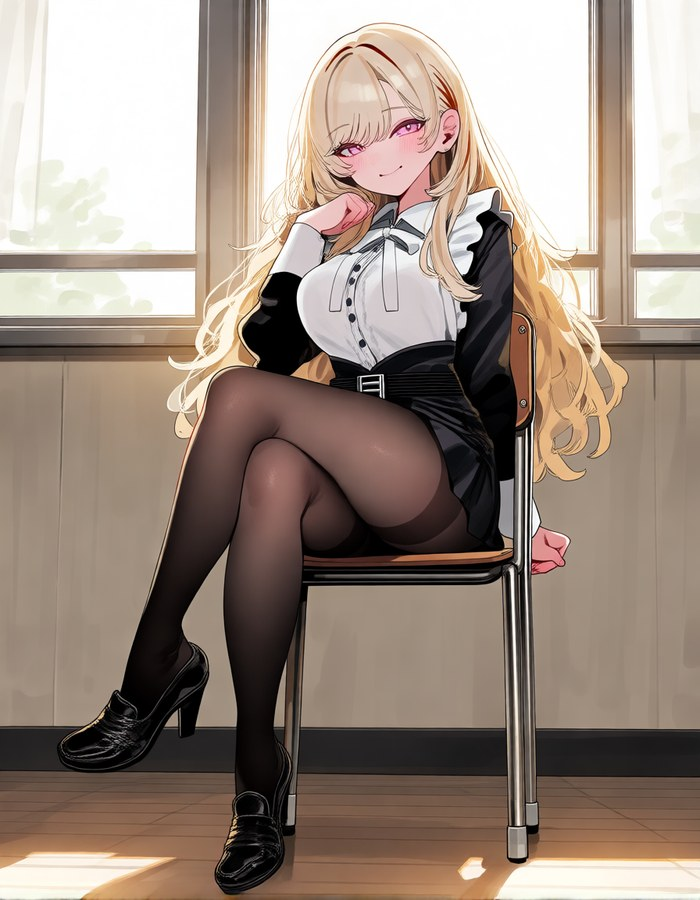
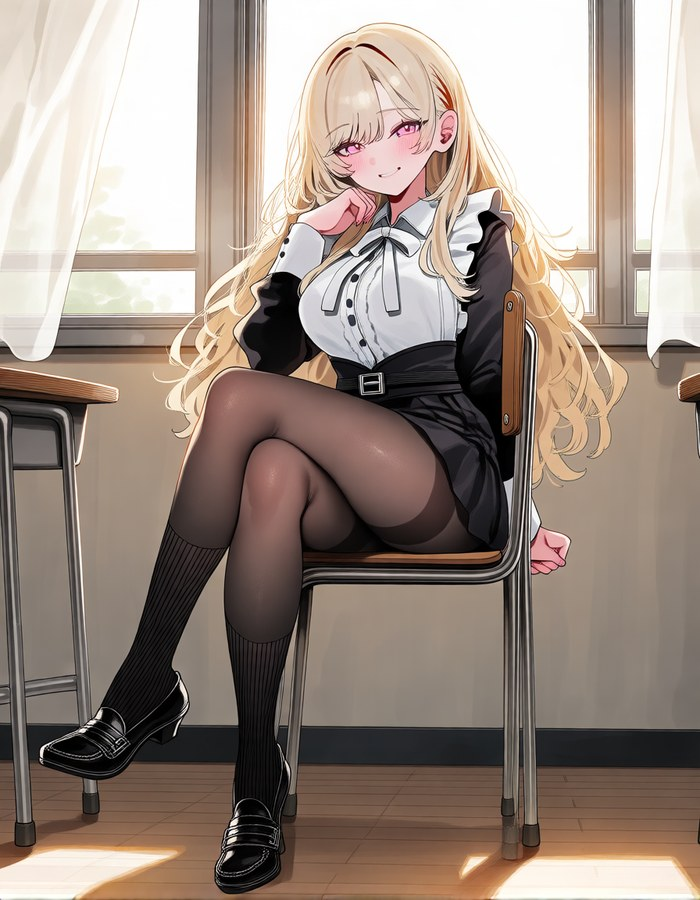
Re-render gallery with context detailer, base slider and PAG
Same references, scenes and seeds; adds the context-detailer (0.3) and
base-slider (0.6) LoRAs and Anima Safe PAG. Settings are listed under
the gallery and as optional extras in the settings table.

diff --git a/README.md b/README.md
@@ -28,8 +28,7 @@ or appearance tags needed, so it also works for original characters.
 ## Gallery
 
 Every image below used the prompt `masterpiece, best quality, score_7, newest, highres, absurdres, safe, <gender>, solo, <scene>` with the scene tags shown, the
-reference image on the left, and default settings (Euler 28 steps, cfg 4.5, reference guidance 4.5, APG).
-Seeds were not cherry-picked.
+reference image on the left, and Euler 28 steps, cfg 4.5, reference guidance 4.5 + APG, context detailer LoRA 0.3, base slider LoRA 0.6, Anima Safe PAG (block 18, scale 1.3, 0.2-0.9). Seeds were not cherry-picked.
 
 <table>
 <tr><td rowspan="2" align="center" valign="middle" width="25%"><img src="docs/showcase/ref_man.jpg" width="100%"><br><b>Reference A</b><br><sub>input image</sub></td><td align="center" valign="top" width="25%"><img src="docs/showcase/man_night_rain.jpg" width="100%"><br><sub><code>full body, walking, hands in pockets, city, street, night, rain</code></sub></td><td align="center" valign="top" width="25%"><img src="docs/showcase/man_cafe.jpg" width="100%"><br><sub><code>upper body, sitting, holding cup, drinking, cafe, indoors, window, sunlight</code></sub></td><td align="center" valign="top" width="25%"><img src="docs/showcase/man_beach.jpg" width="100%"><br><sub><code>cowboy shot, looking at viewer, smile, beach, ocean, sunset</code></sub></td></tr>
@@ -109,6 +108,7 @@ Workflows: [`anima_ref_adapter.json`](workflows/anima_ref_adapter.json) (basic) 
 | `ref_guidance` | 4.5 - 6 | 1 = weak and cheaper; higher = more character detail and style, more saturation |
 | `correction` | `apg` | or `rescale` (phi 0.5) |
 | prompt | quality + gender + `solo` + scene tags | no character name, artist tag or appearance tags |
+| extras (optional) | Anima context-detailer LoRA ~0.3, base-slider LoRA ~0.6, Anima Safe PAG | used for the gallery; ordinary LoRAs go in front of the adapter loader |
 
 <details>
 <summary><b>Limitations</b></summary>
